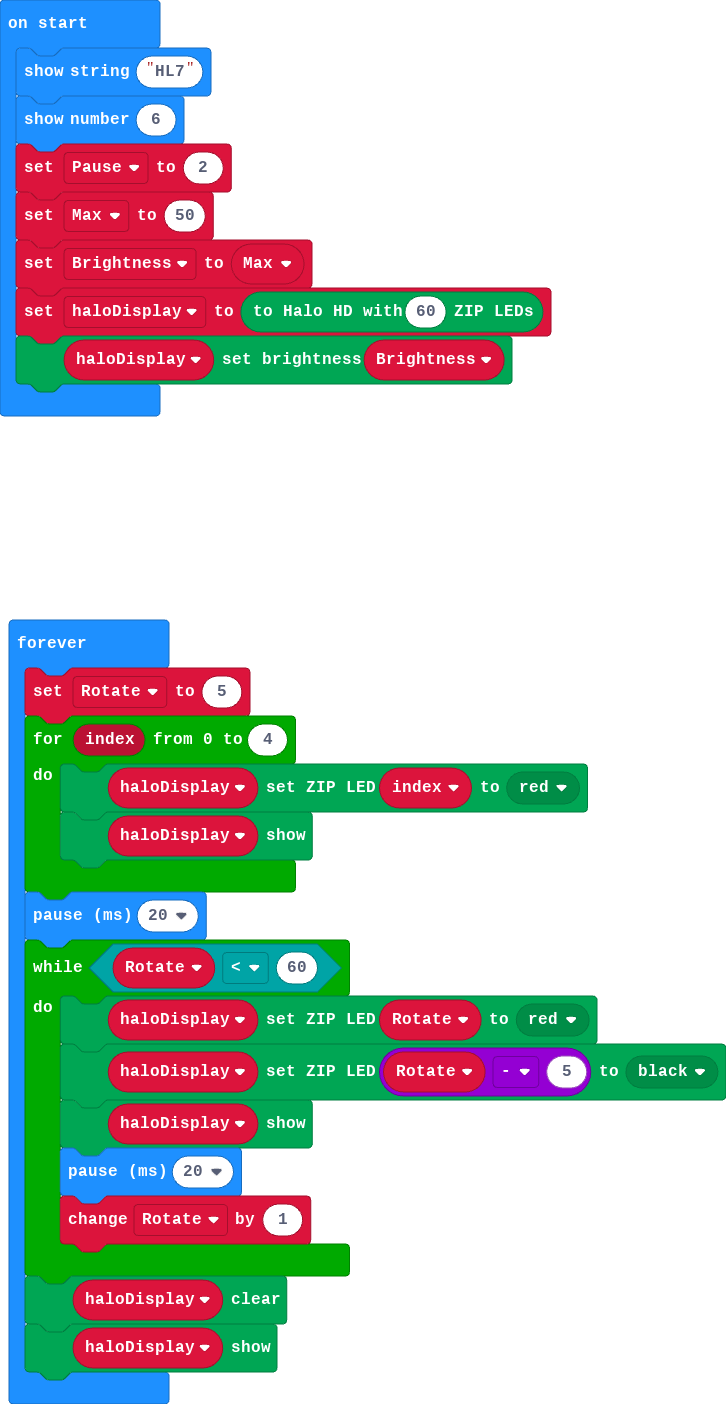
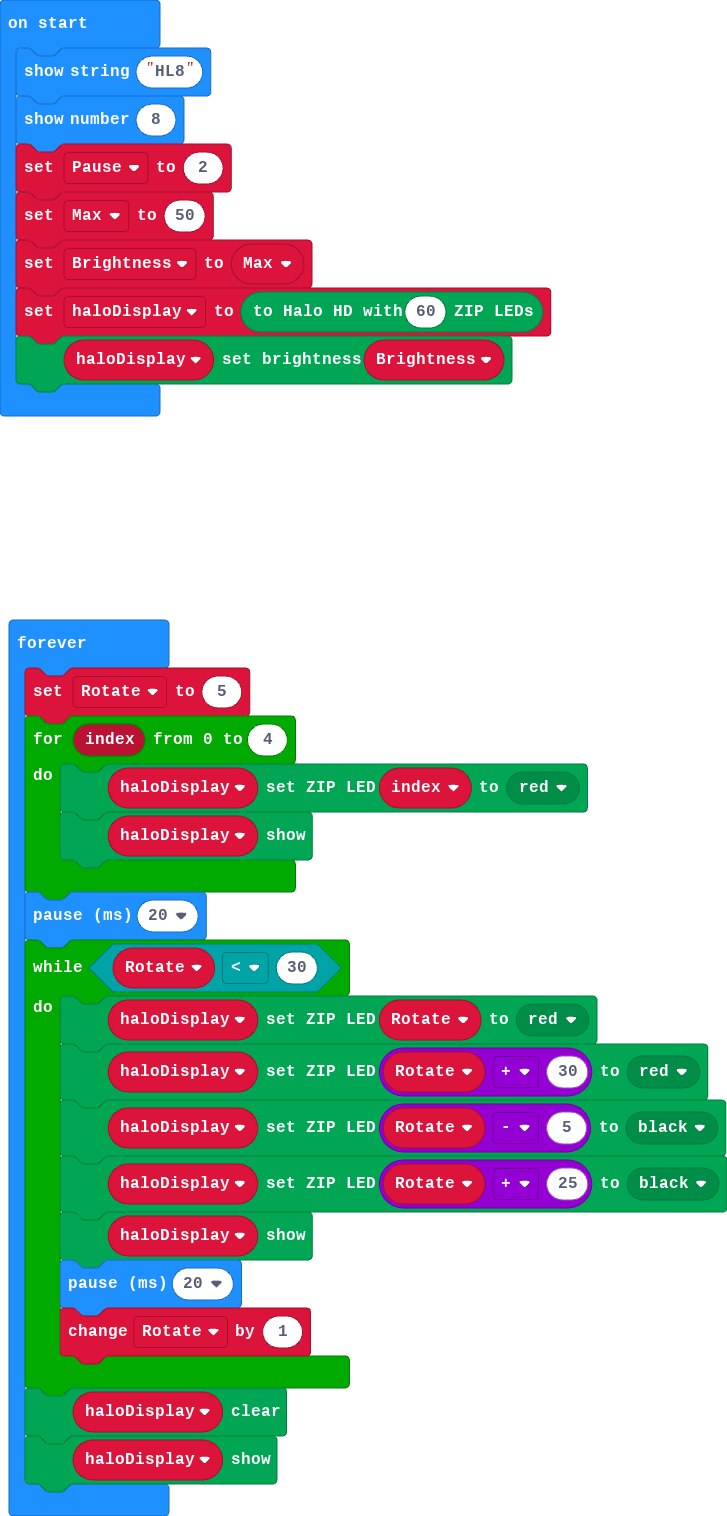
Update pxt.json, main.blocks, main.ts

Changed region(s): [[0.0, 0.3981, 1.0, 0.9801], [0.0, 0.0, 0.7576, 0.3063], [0.0606, 0.9801, 0.0909, 1.0]]

diff --git a/main.ts b/main.ts
@@ -1,6 +1,6 @@
 let Rotate = 0
-basic.showString("HL7")
-basic.showNumber(6)
+basic.showString("HL8")
+basic.showNumber(8)
 let Pause = 2
 let Max = 50
 let Brightness = Max
@@ -13,9 +13,11 @@ basic.forever(function () {
         haloDisplay.show()
     }
     basic.pause(20)
-    while (Rotate < 60) {
+    while (Rotate < 30) {
         haloDisplay.setZipLedColor(Rotate, kitronik_halo_hd.colors(ZipLedColors.Red))
+        haloDisplay.setZipLedColor(Rotate + 30, kitronik_halo_hd.colors(ZipLedColors.Red))
         haloDisplay.setZipLedColor(Rotate - 5, kitronik_halo_hd.colors(ZipLedColors.Black))
+        haloDisplay.setZipLedColor(Rotate + 25, kitronik_halo_hd.colors(ZipLedColors.Black))
         haloDisplay.show()
         basic.pause(20)
         Rotate += 1
